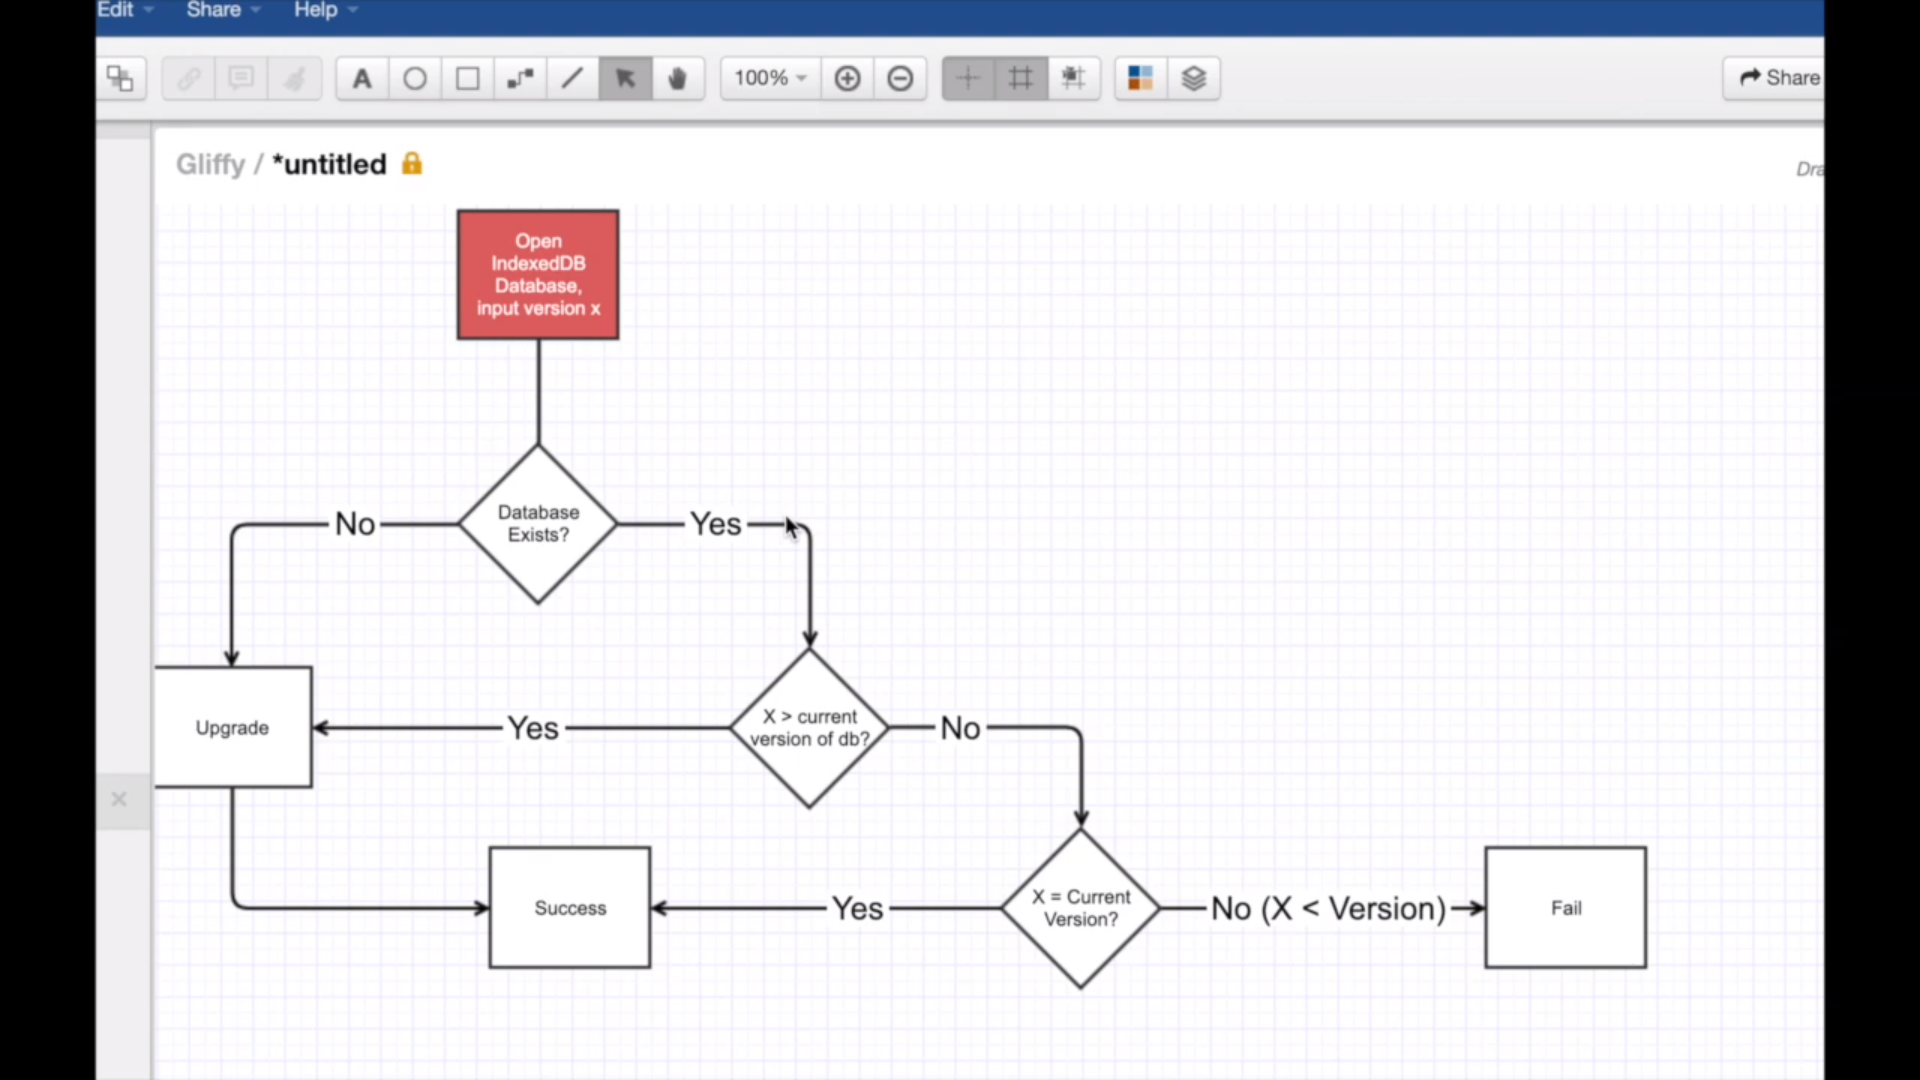
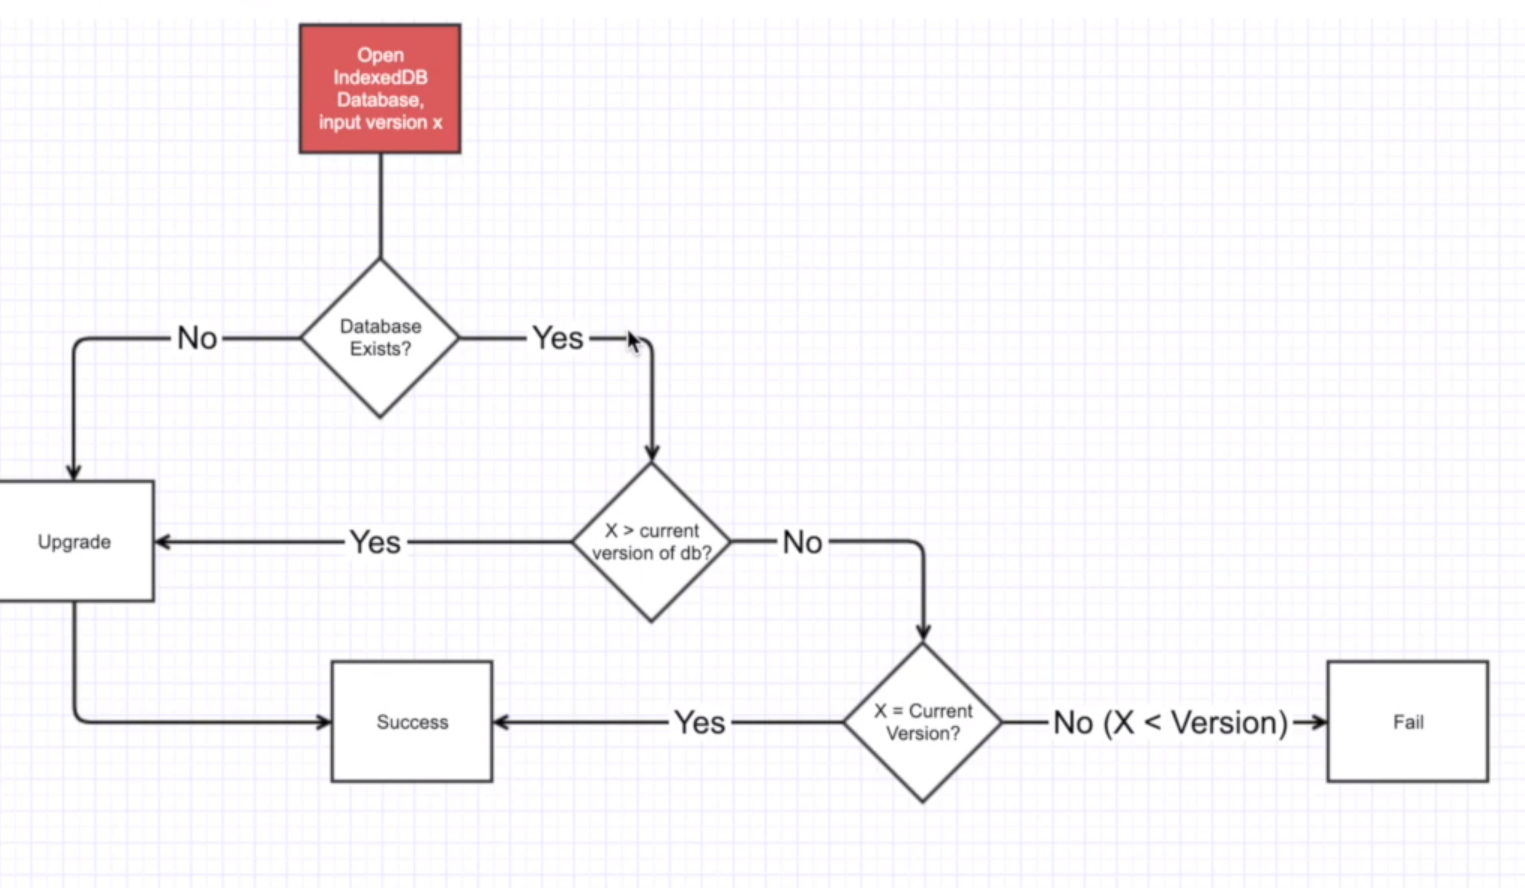
complete the yt tutorial, basics of indexedDB

Changed region(s): [[0.0, 0.0, 1.0, 1.0]]

diff --git a/index.html b/index.html
@@ -1,47 +1,116 @@
 <html lang="en">
-<head>
-    <meta charset="UTF-8">
-    <meta http-equiv="X-UA-Compatible" content="IE=edge">
-    <meta name="viewport" content="width=device-width, initial-scale=1.0">
+  <head>
+    <meta charset="UTF-8" />
+    <meta http-equiv="X-UA-Compatible" content="IE=edge" />
+    <meta name="viewport" content="width=device-width, initial-scale=1.0" />
     <title>IndexedDB</title>
-</head>
-<body>
-    <label for="txtDB">DB: </label><input type = "text" value="notes" id="txtDB">
-    <label for="">Version</label><input type="number" maxlength="1" min="1" id="versionDB">
+  </head>
+  <body>
+    <label for="txtDB">DB: </label
+    ><input type="text" value="notes" id="txtDB" />
+    <label for="">Version: </label
+    ><input type="number" maxlength="1" min="1" id="versionDB" />
     <button id="btnCreateDB">CreateDB</button>
+
+    <button id="btnAddNote">Add Note</button>
+
+    <button id="btnViewNotes">View Notes</button>
+
     <script>
+      let db;
+      const btnCreateDB = document.querySelector("#btnCreateDB");
+      const btnAddNote = document.querySelector("#btnAddNote");
+      const btnViewNotes = document.querySelector("#btnViewNotes");
 
-        const btnCreateDB = document.querySelector("#btnCreateDB")
-        btnCreateDB.addEventListener("click",CreateDB)
+      btnCreateDB.addEventListener("click", CreateDB);
+      btnAddNote.addEventListener("click", addNote);
+      btnViewNotes.addEventListener("click", viewNotes);
 
-        
+      function viewNotes() {
+        const tx = db.transaction("personal_notes"); //by default the transaction is read only
+        const pNotes = tx.objectStore("personal_notes");
 
-        function CreateDB(){
+        const request = pNotes.openCursor();
 
-            const dbName = document.querySelector("#txtDB").value
-            const dbVersion = document.querySelector("#versionDB").value
+        request.onsuccess = (e) => {
+          const cursor = e.target.result;
+          if (cursor) {
+            // do something with the cursor
 
-            const request = indexedDB.open(dbName,dbVersion||1);
-            
-            // on upgrade needed
-        request.onupgradeneeded = e =>{
-            // const db = e.target.result; //e.target is the request , also use request.result
-            const db = request.result;
-            console.log(`db`,db);
-             
-            alert("upgrade is called")
-        }
+            alert(
+              `title: ${cursor.key} primaryKey: ${cursor.primaryKey} text: ${cursor.value.text}`
+            );
+
+            cursor.continue();
+          }
+        };
+      }
+
+      function addNote() {
+        const note = {
+          title: `note ${Math.random()}`,
+          text: "This is my note",
+        };
+
+        const tx = db.transaction("personal_notes", "readwrite");
+        tx.onerror = (e) => {
+          alert(`   Error! ${e.target.error}    `);
+        };
+
+        //
+
+        const pNotes = tx.objectStore("personal_notes");
+        pNotes.add(note);
+      }
+
+      function CreateDB() {
+        const dbName = document.querySelector("#txtDB").value;
+        const dbVersion = document.querySelector("#versionDB").value;
+
+        const request = indexedDB.open(dbName, dbVersion || 1);
+
+        // on upgrade needed
+        request.onupgradeneeded = (e) => {
+          // const db = e.target.result; //e.target is the request , also use request.result
+          db = request.result;
+
+          /* note = {
+            title:"note1",
+            text:"this is first note"
+          }*/
+          // on upgrade is the only place where we can create dd(data definition) operation . to do it afterwards you need a transaction
+          // D.D. (Data definition operations)
+          db.createObjectStore("personal_notes", { keyPath: "title" }); // creates an objectStore named 'personal_notes' in the database
+          db.createObjectStore("todo_notes", { keyPath: "title" }); // creates an objectStore named 'todo_notes' in the database
+          // now we can add and access content in the dataStore with the key 'title'.
+
+          // cannot access the object stores here , because this whole thing is asynchronous , and the object stores are not ready yet
+
+          alert(
+            `onupgradeneeded is called database name: "${db.name}"" and version is "${db.version}"`
+          );
+
+          console.log(`db`, db);
+        };
 
         // on success
-        request.onsuccess = e =>{
-            alert("success is called")
-        }
-        
+        request.onsuccess = (e) => {
+          db = e.target.result;
+
+          // you cannot create a dd(data definition) operation here
+
+          alert(
+            `success is called database name: "${db.name}"" and version is "${db.version}"`
+          );
+
+          console.log(`db`, db);
+        };
+
         // on error
-        request.onerror = e =>{
-            alert(`error ! ${e.target.error}`)
-        }
-    }
+        request.onerror = (e) => {
+          alert(`error ! -> ${e.target.error}`);
+        };
+      }
     </script>
-</body>
+  </body>
 </html>

diff --git a/README.md b/README.md
@@ -1,5 +1,9 @@
 # IndexedDB
 
+### Flow of indexedDB
+
+![flowchart of working of indexedDB](./flowchart.png)
+
 ## Open a database
 
 `const request = indexedDB.open(dbName,dbVersion)`
@@ -16,6 +20,8 @@ request.error = (e) => {};
 request.success = (e) => console.log(`error ! ${e.target.error}`);
 ```
 
+## Access the Database
+
 - access database in `onupgradeneeded` event or the `success` event using
   `event.target.result`
 
@@ -27,4 +33,86 @@ request.success = (event) => console.log("db", event.target.result);
 request.onupgradeneeded = (e) => console.log("db", e.target.result);
 //or
 request.success = (event) => console.log("db", request.result); // here event is success , target is request)
+```
+
+## add to the database
+
+1. ### Create a Transaction
+
+- create a transaction for the desired objectStoreName with the permissions required `"readwrite"` or `"readonly"`. By default the permission is set to `"readonly"` , so you can skip the second argument (of permissions) if you require only read access
+
+#### Syntax to create a transaction
+
+```js
+const tx = db.transaction("<name-of-objectStore>", "<permissions-required>");
+
+// below are a few examples of creating a transaction
+
+const tx = db.transaction("personal_notes", "readwrite");
+
+// or if I only require read access I can write
+const tx = db.transaction("personal_notes", "readonly");
+// or
+const tx = db.transaction("personal_notes"); // you can skip readonly cuz by default all transactions are readonly
+```
+
+### catch errors in transaction
+
+- `.onerror` event is used to catch errors while a transaction is processing
+
+#### syntax to write a onerror
+
+```js
+tx.onerror = (e) => {
+  alert(`Error occurred -> ${e.target.error}`);
+  // can also use `tx.error` in place of `e.target.error` since they mean the same thing
+};
+```
+
+2. ### Get the ObjectStore and add data into it
+
+####syntax to get the objectStore from the transaction and add data in it
+example-
+
+```js
+// define data or fetch it , here we will define it
+ data = {
+    title:`note1 ${Math.random()}`,
+    text:`this our Note friend`
+ }
+
+// access the objectStore from the transaction
+const pNotes = tx.objectStore("personal_notes);
+// add data to the objectStore
+pNotes.add(data)
+```
+
+## View Database
+
+1. Create a transaction with the desired objectStore and readonly access
+2. get the object store from the transaction
+3. make the .openCursor() request.
+4. define the onsuccess event of the request to - if the cursor has any value then display it and then move on to the next cursor with -> cursor.continue() , and if there is no value in cursor then do nothing
+5. access the cursor values object with - `cursor.value`
+
+following is an example to view database
+
+```js
+function viewNotes() {
+  const tx = db.transaction("personal_notes"); // this by default gives the transaction readonly access
+  const pNotes = tx.objectStore("personal_notes");
+
+  request = pNotes.openCursor(); //makes a request to open cursor
+
+  request.onsuccess = (e) => {
+    const cursor = e.target.result // cursor is the result of the request made to openCursor from objectStore - pNotes
+
+    if(cursor){
+      alert(note primaryKey: ${cursor.primaryKey} , title: ${cursor.value.title}, text: ${cursor.value.text})
+
+      cursor.continue() // recalls the openCursor() request to provide the next cursor or the next object of the specified objectStore
+
+    } // if the cursor is empty it does nothing and stops the loop
+  };
+}
 ```
